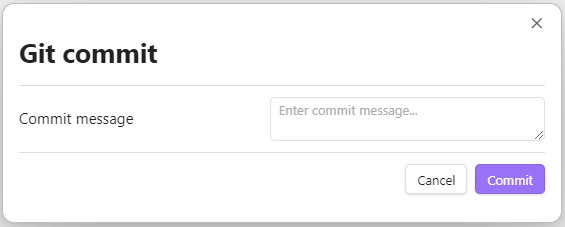
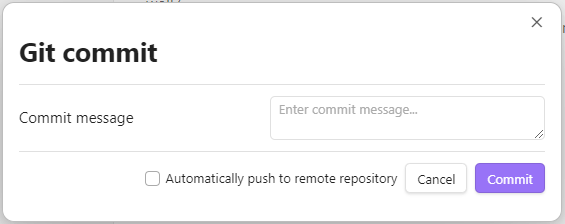
Address comments and update readme

diff --git a/src/main.ts b/src/main.ts
@@ -122,12 +122,6 @@ export default class GitPlugin extends Plugin {
         this.addOpenFolderRibbonIcon();
         this.addDeleteGitFolderRibbonIcon();
       }
-
-      // If the plugin hooks up any global DOM events (on parts of the app that doesn't belong to this plugin)
-      // Using this function will automatically remove the event listener when this plugin is disabled.
-      this.registerDomEvent(document, "click", (evt: MouseEvent) => {
-        console.log("click", evt);
-      });
     } catch (err) {
       this.openDebugModal(err, "ERROR");
       new Notice(err);
@@ -140,42 +134,10 @@ export default class GitPlugin extends Plugin {
     });
   }
 
-  // addCommitRibbonIcon(): void {
-  // 	const ribbonIconEl = this.addRibbonIcon(
-  // 		"git-commit-vertical",
-  // 		"Git commit",
-  // 		(evt: MouseEvent) => {
-  // 			new GitCommitModal(this.app).open();
-  // 		}
-  // 	);
-  // 	ribbonIconEl.addClass("my-plugin-ribbon-class");
-  // }
-
-  // addSyncRibbonIcon(): void {
-  // 	const ribbonIconEl = this.addRibbonIcon(
-  // 		"git-compare-arrows",
-  // 		"Git sync",
-  // 		(evt: MouseEvent) => {
-  // 			new GitSyncModal(this.app).open();
-  // 		}
-  // 	);
-  // 	ribbonIconEl.addClass("my-plugin-ribbon-class");
-  // }
-
-  addOpenMenuCommand(): void {
-    this.addCommand({
-      id: "git-menu",
-      name: "Open git menu",
-      callback: () => {
-        this.menuModal.open();
-      },
-    });
-  }
-
   addOpenInitModalCommand(): void {
     this.addCommand({
-      id: "git-init",
-      name: "Open init repository modal",
+      id: "init",
+      name: "Init repository",
       checkCallback: (checking: boolean) => {
         if (!this.settings.gitRemote) {
           if (!checking) {
@@ -190,8 +152,8 @@ export default class GitPlugin extends Plugin {
 
   addOpenCommitModalCommand(): void {
     this.addCommand({
-      id: "git-commit",
-      name: "Open commit changes modal",
+      id: "commit",
+      name: "Commit changes",
       callback: () => {
         this.commitModal.open();
       },
@@ -200,7 +162,7 @@ export default class GitPlugin extends Plugin {
 
   addSyncCommand(): void {
     this.addCommand({
-      id: "git-sync",
+      id: "sync",
       name: "Sync with remote repository",
       callback: () => {
         this.syncModal.open();
@@ -211,7 +173,7 @@ export default class GitPlugin extends Plugin {
   addStatusBarIndication(): void {
     // This adds a status bar item to the bottom of the app. Does not work on mobile apps.
     const statusBarItemEl = this.addStatusBarItem();
-    statusBarItemEl.setText("Git Integration Active");
+    statusBarItemEl.setText("Git integration active");
   }
 
   addSettingsPage(): void {

diff --git a/README.md b/README.md
@@ -11,7 +11,6 @@ This plugin works on Windows 10+ and requires Git to be installed in the local s
 
 ### Open the git menu
 
-
 Click "Open git menu" ribbon icon.
 
 ![Git menu ribbon](docs/images/image.png)
@@ -24,7 +23,7 @@ The menu will pop up, which shows options to init, commit or sync.
 
 Create an empty repository on GitHub.
 
-Open to the git menu and select "Git init" or open the command palette (Ctrl+P on Windows) and search "Open init repository modal".
+Open to the git menu and select "Git init" or open the command palette (`Ctrl+P` on Windows) and search "Open init repository modal".
 
 ![Git init modal](docs/images/image-2.png)
 
@@ -32,15 +31,16 @@ Paste the remote repository url and click "Initialize" to finish setting up.
 
 ### Create a commit
 
-Open to the git menu and select "Git commit" or open the command palette (Ctrl+P on Windows) and search "Open commit changes modal".
+Open to the git menu and select "Git commit" or open the command palette (`Ctrl+P` on Windows) and search "Open commit changes modal".
 
 ![Git commit modal](docs/images/image-3.png)
 
 Enter a commit message and click "Commit". This is equivalent to performing `git add .` followed by `git commit -m "<message>"`.
+You may also check "Automatically push to remote repository" to push immediately after commit.
 
 ### Sync with remote repository
 
-Open to the git menu and select "Git sync" or open the command palette (Ctrl+P on Windows) and search "Sync with remote repository".
+Open to the git menu and select "Git sync" or open the command palette (`Ctrl+P` on Windows) and search "Sync with remote repository".
 
 ![Git sync modal](docs/images/image-4.png)
 
